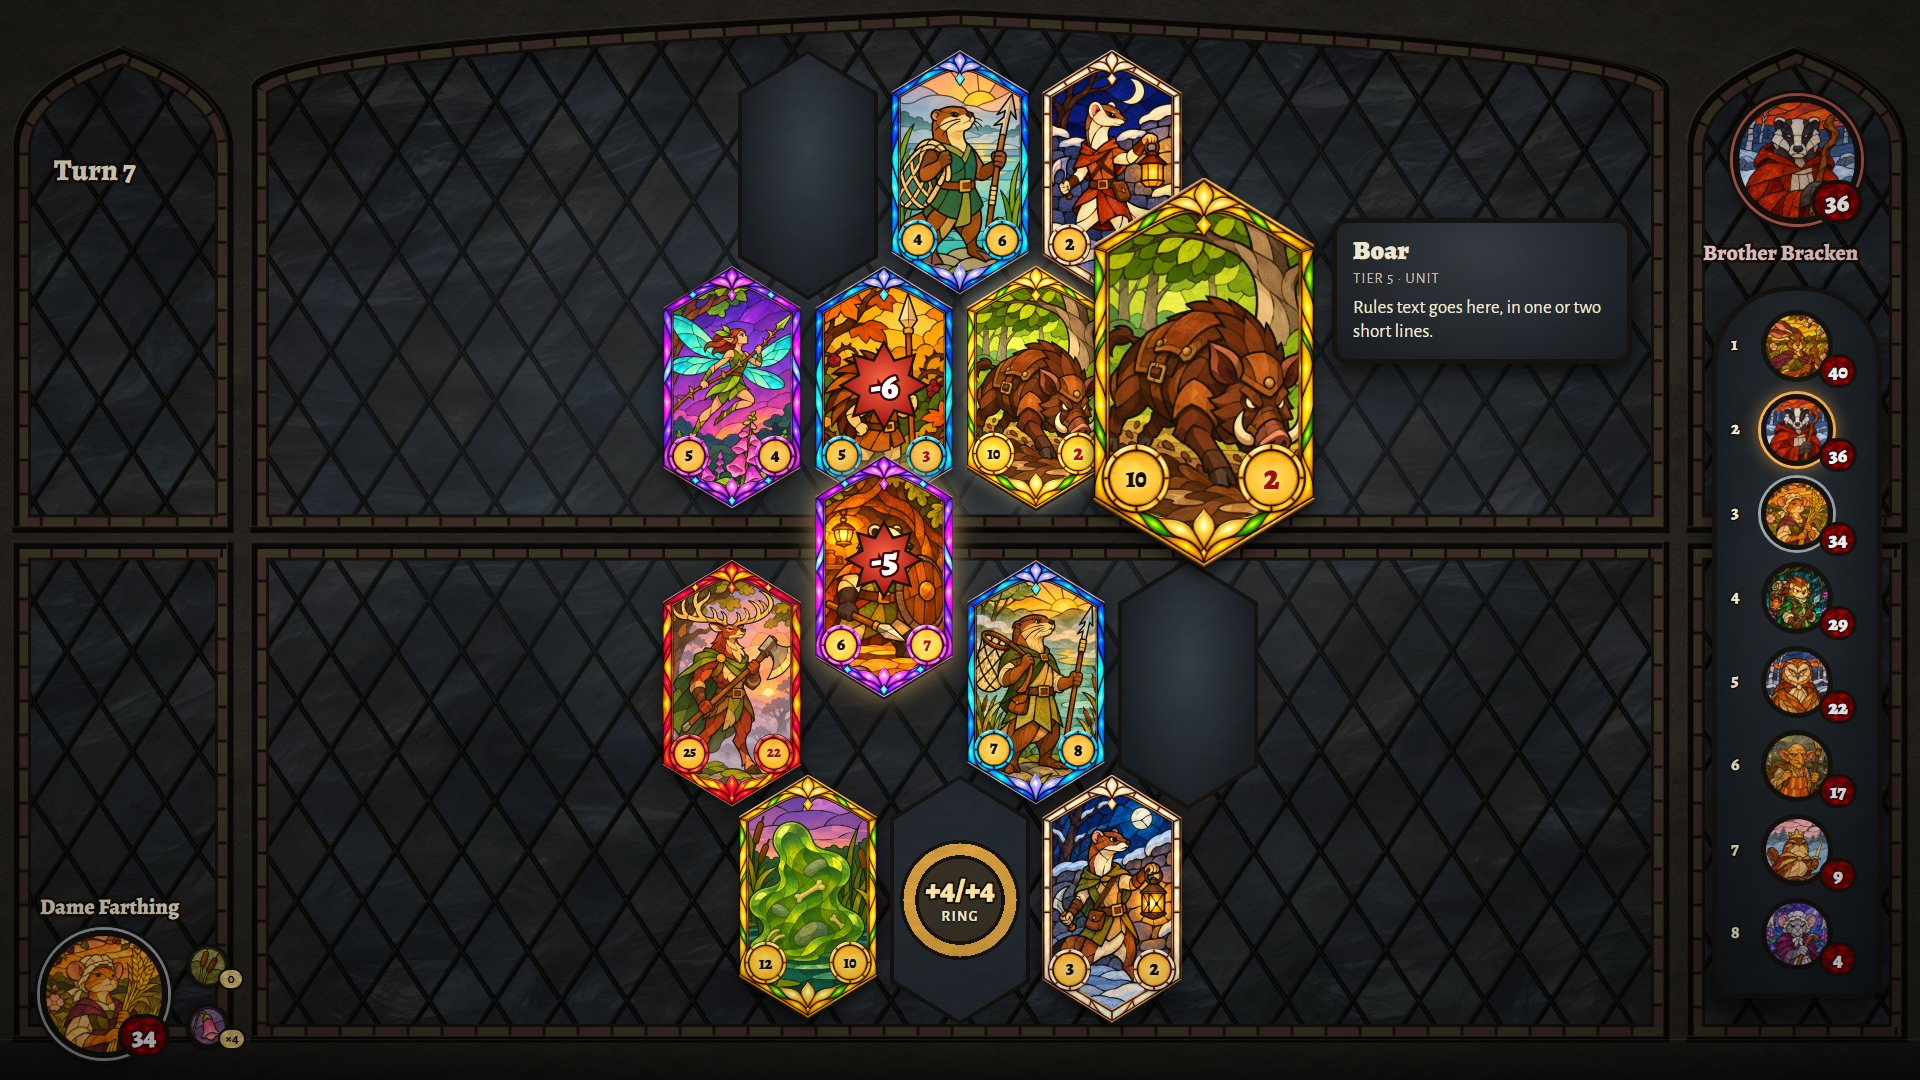
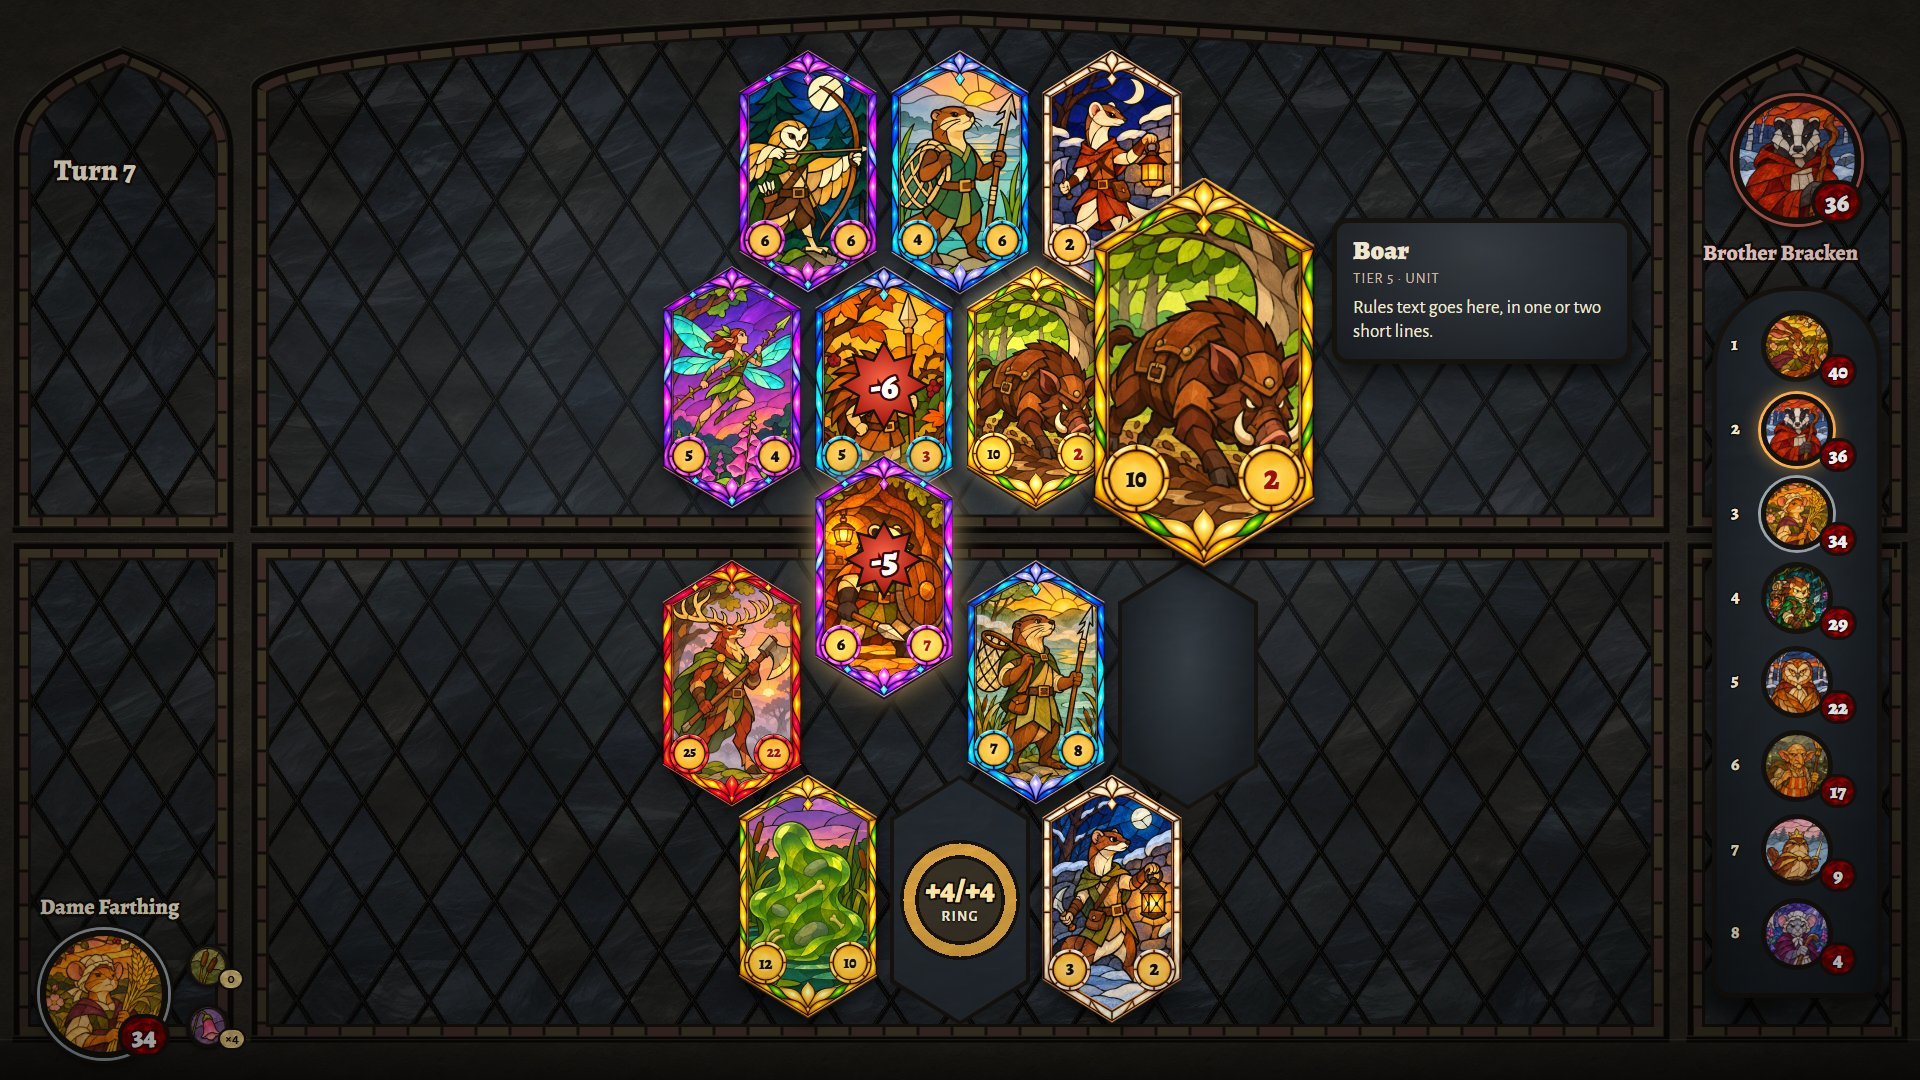
Glass mock-ups: scope-review fixes to the fight screen record and state
Mid-fight, their dead unit is now a front-row one (rulebook 9.5.1 keeps the back row safe while
a front unit lives). The record says the board moves down, not up, lists the opponent's hero
position as a mock-up choice, cites 9.1.1 for the Ring slot, and quotes the owner's full
16 Nov answer on card size.

Changed region(s): [[0.375, 0.0306, 0.4688, 0.275]]

diff --git a/docs/design/art-direction/mockups/fight.html b/docs/design/art-direction/mockups/fight.html
@@ -52,8 +52,8 @@ const THEIRS = [
   { id: "o0", tier: 4, art: A("fairy-1"), attack: 5, health: 4, name: "Fairy" },
   { id: "o1", tier: 3, art: A("hedgehog-2"), attack: 5, health: 9, name: "Hedgehog pikeman", hp: 3 },
   { id: "o2", tier: 5, art: A("boar-2"), attack: 10, health: 8, name: "Boar", hp: 2 },
-  { id: "o3", tier: 2, art: A("mouse-2"), attack: 3, health: 3, name: "Mouse" },
-  { id: "o4", tier: 4, art: A("owl-2"), attack: 6, health: 6, name: "Barn owl archer", dead: true },
+  { id: "o3", tier: 2, art: A("mouse-2"), attack: 3, health: 3, name: "Mouse", dead: true },
+  { id: "o4", tier: 4, art: A("owl-2"), attack: 6, health: 6, name: "Barn owl archer" },
   { id: "o5", tier: 3, art: A("otter-2"), attack: 4, health: 6, name: "Otter river guard" },
   { id: "o6", tier: 1, art: A("stoat-2"), attack: 2, health: 1, name: "Stoat skirmisher" },
 ];

diff --git a/docs/workstreams/glass-mockups.md b/docs/workstreams/glass-mockups.md
@@ -59,15 +59,15 @@ Not on the card, because the frames don't have them and the owner asked for Atta
 
    **Then, on their size (owner, 15 Nov 2026):** "The card size of them should be exactly the same as the width, but they should be regular. So they should inherit the width from the normal cards, but the height of a regular hexagon. ... I want a regular hexagon of the same width, so it tiles is the exact same." Done: each spell is a regular hexagon exactly a unit's width (height = width / (√3/2), about 0.65 of a unit's height), sitting in the notch between two units with the same gap as the board's back row. A regular hexagon's sides slope at 30°, the units' roofs at 31.3°, so the gap narrows very slightly towards the point. To fit the taller spell row the hand gives way: at 250 px it shows a little under half a card.
 
-   **Chosen (owner, 16 Nov 2026):** shown the 250 px screenshot with these spells ([recruit-250-spells-above.jpg](../design/art-direction/mockups/shots/recruit-250-spells-above.jpg)), the owner said: "I like this image, if that answers the question." So cards are 250 px tall, and the spells are regular hexes the units' width, as above. The page now opens on this version; the other sizes and layouts stay as switches.
+   **Chosen (owner, 16 Nov 2026):** asked to pick 212 or 250 px, the owner first said: "Can you explain what the difference between the two sizes are again? Sorry. I think the sizing that matches the length of the slightly off angle is correct." Then, sending the 250 px screenshot with these spells ([recruit-250-spells-above.jpg](../design/art-direction/mockups/shots/recruit-250-spells-above.jpg)), the owner said: "I like this image, if that answers the question." So cards are 250 px tall, and the spells are regular hexes the units' width, as above. The page now opens on this version; the other sizes and layouts stay as switches.
 
 4. **Fight screen (owner, 16 Nov 2026).** Asked which screen next, the owner said: "Fight screen". Built from rules already set, with the same window, cards and heroes as the recruit screen:
    - Both boards are 4 and 3 bricks with the front rows facing each other across the stone transom; the opponent's board takes the shop's light, mirrored.
-   - Your board stays the same size and centred, and slides up; the hand leaves (owner, 14 Nov: "I don't think your hand is needed for combat", "maybe the board can move a little bit").
-   - Dead units leave their slot empty, as units never slide to fill a gap (rulebook 8.3.4); the Ring slot comes into the fight (8.5.2).
-   - Your hero bottom left as in recruit; the opponent's hero top right beside their board; the leaderboard below it when shown.
+   - Your board stays the same size and centred, and moves down about 90 px into the hand's space; the hand leaves (owner, 14 Nov: "I don't think your hand is needed for combat", "maybe the board can move a little bit").
+   - Dead units leave their slot empty, as units never slide to fill a gap (rulebook 8.3.4); the Ring slot comes into the fight (9.1.1). Mid-fight, the dead are front-row units, since the back row can't be attacked while a front unit lives (9.5.1).
+   - Your hero bottom left as in recruit; the leaderboard in the right light when shown.
    - Two moments: before the first attack, and mid-fight (a unit lunging across the transom, damage splashes, damaged Health in red). The lunge, splashes and red Health are stand-ins; nothing about fight animation is designed.
-   - Not decided, chosen for the mock-up: the opponent's slots read left to right like yours (F1 on the left), and there are no fight controls (speed, skip).
+   - Not decided, chosen for the mock-up: the opponent's hero at the top of the right light, beside their board; the opponent's slots read left to right like yours (F1 on the left); no fight controls (speed, skip).
 
 Before each step is kept: screenshots of every view, and a scope review by a fresh agent.
 

diff --git a/docs/design/art-direction/mockups/README.md b/docs/design/art-direction/mockups/README.md
@@ -15,7 +15,7 @@ Open `recruit.html`, `fight.html` or `cards.html` straight from disk in a browse
 | [recruit-250.jpg](shots/recruit-250.jpg) | The same with cards 250 px tall |
 | [recruit-250-leaderboard-hover.jpg](shots/recruit-250-leaderboard-hover.jpg) | 250 px, leaderboard shown, a board card hovered |
 | [recruit-212-leaderboard-hover.jpg](shots/recruit-212-leaderboard-hover.jpg) | 212 px, leaderboard shown, a shop card hovered |
-| [fight-mid.jpg](shots/fight-mid.jpg) | Fight screen mid-fight: your Badger lunging at their Hedgehog, damage splashes, dead units' slots left empty, damaged Health in red (16 Nov) |
+| [fight-mid.jpg](shots/fight-mid.jpg) | Fight screen mid-fight: your Badger lunging at their Hedgehog, damage splashes, a dead unit's slot left empty on each side, damaged Health in red (16 Nov) |
 | [fight-start.jpg](shots/fight-start.jpg) | Fight screen before the first attack: both boards whole |
 | [fight-mid-leaderboard-hover.jpg](shots/fight-mid-leaderboard-hover.jpg) | Mid-fight, leaderboard shown, an opponent's unit hovered |
 | [card-sheet.jpg](shots/card-sheet.jpg) | Every tier at both sizes and at 2x, one- and two-digit numbers |
@@ -43,7 +43,7 @@ Screenshots: `tools/art/mockups/shot.sh <page> "<query>" <out.png> [height]` (he
 ## Stand-ins
 
 - **Spells:** no spell frame exists yet. The two shop spells are the recipe's spell picture in a plain lead outline with a cost disc, in the unit's tall shape or, above the shop, a regular hexagon exactly the units' width.
-- **Fight:** the lunge, the damage splashes and red Health for damage are stand-ins; fight animation and states are not designed. The opponent's slots reading left to right like yours, and having no fight controls, are the mock-up's choices, not decided.
+- **Fight:** the lunge, the damage splashes and red Health for damage are stand-ins; fight animation and states are not designed. The opponent's hero top right, their slots reading left to right like yours, and having no fight controls are the mock-up's choices, not decided. Your board moves down about 90 px from the recruit screen into the hand's space.
 - **Names, numbers and hover text:** placeholders. The art is the art session's test set (12 subjects, two runs each, from `window-art-test/margin-8` on the Optiplex), not decided units.
 - **The window, stone, buttons, portraits, empty slot, Ring slot, the hero's two chips and the fanned hand** are the first glass mock-up's, with the window redrawn to fit the new card sizes. The hand count reads /10, the rulebook's hand limit (7.1.1); the first mock-up said /7.
 
